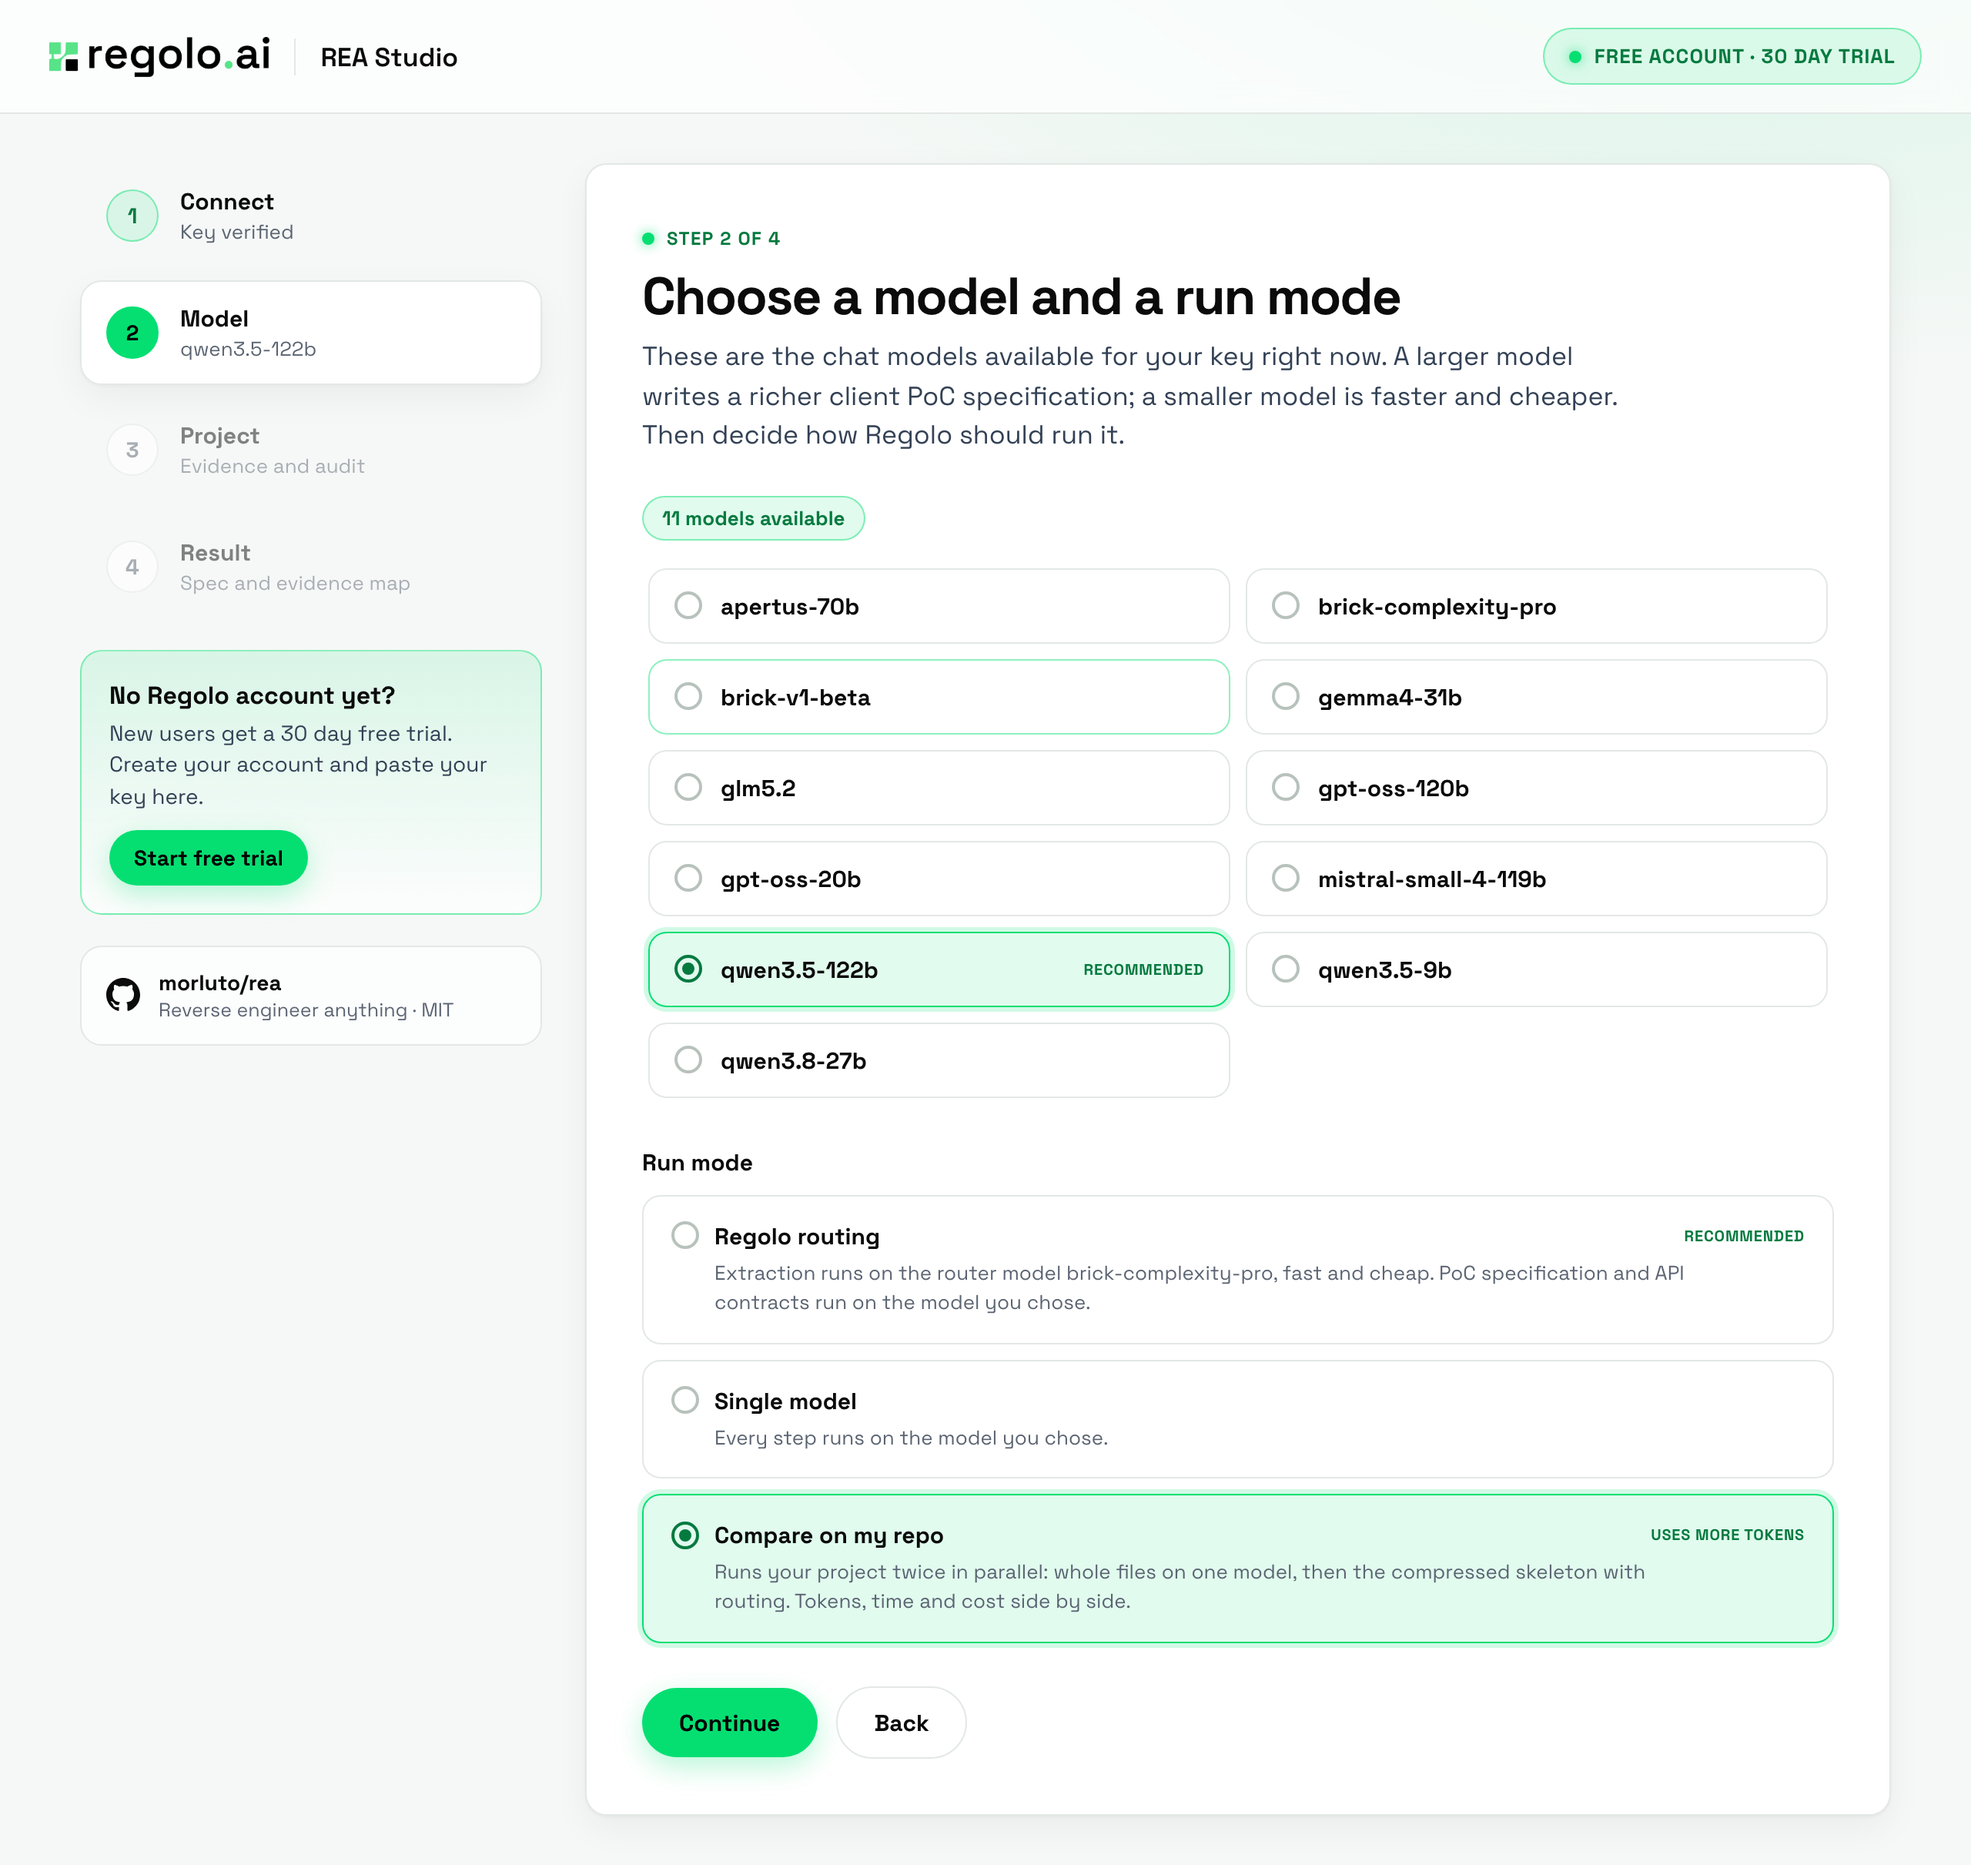
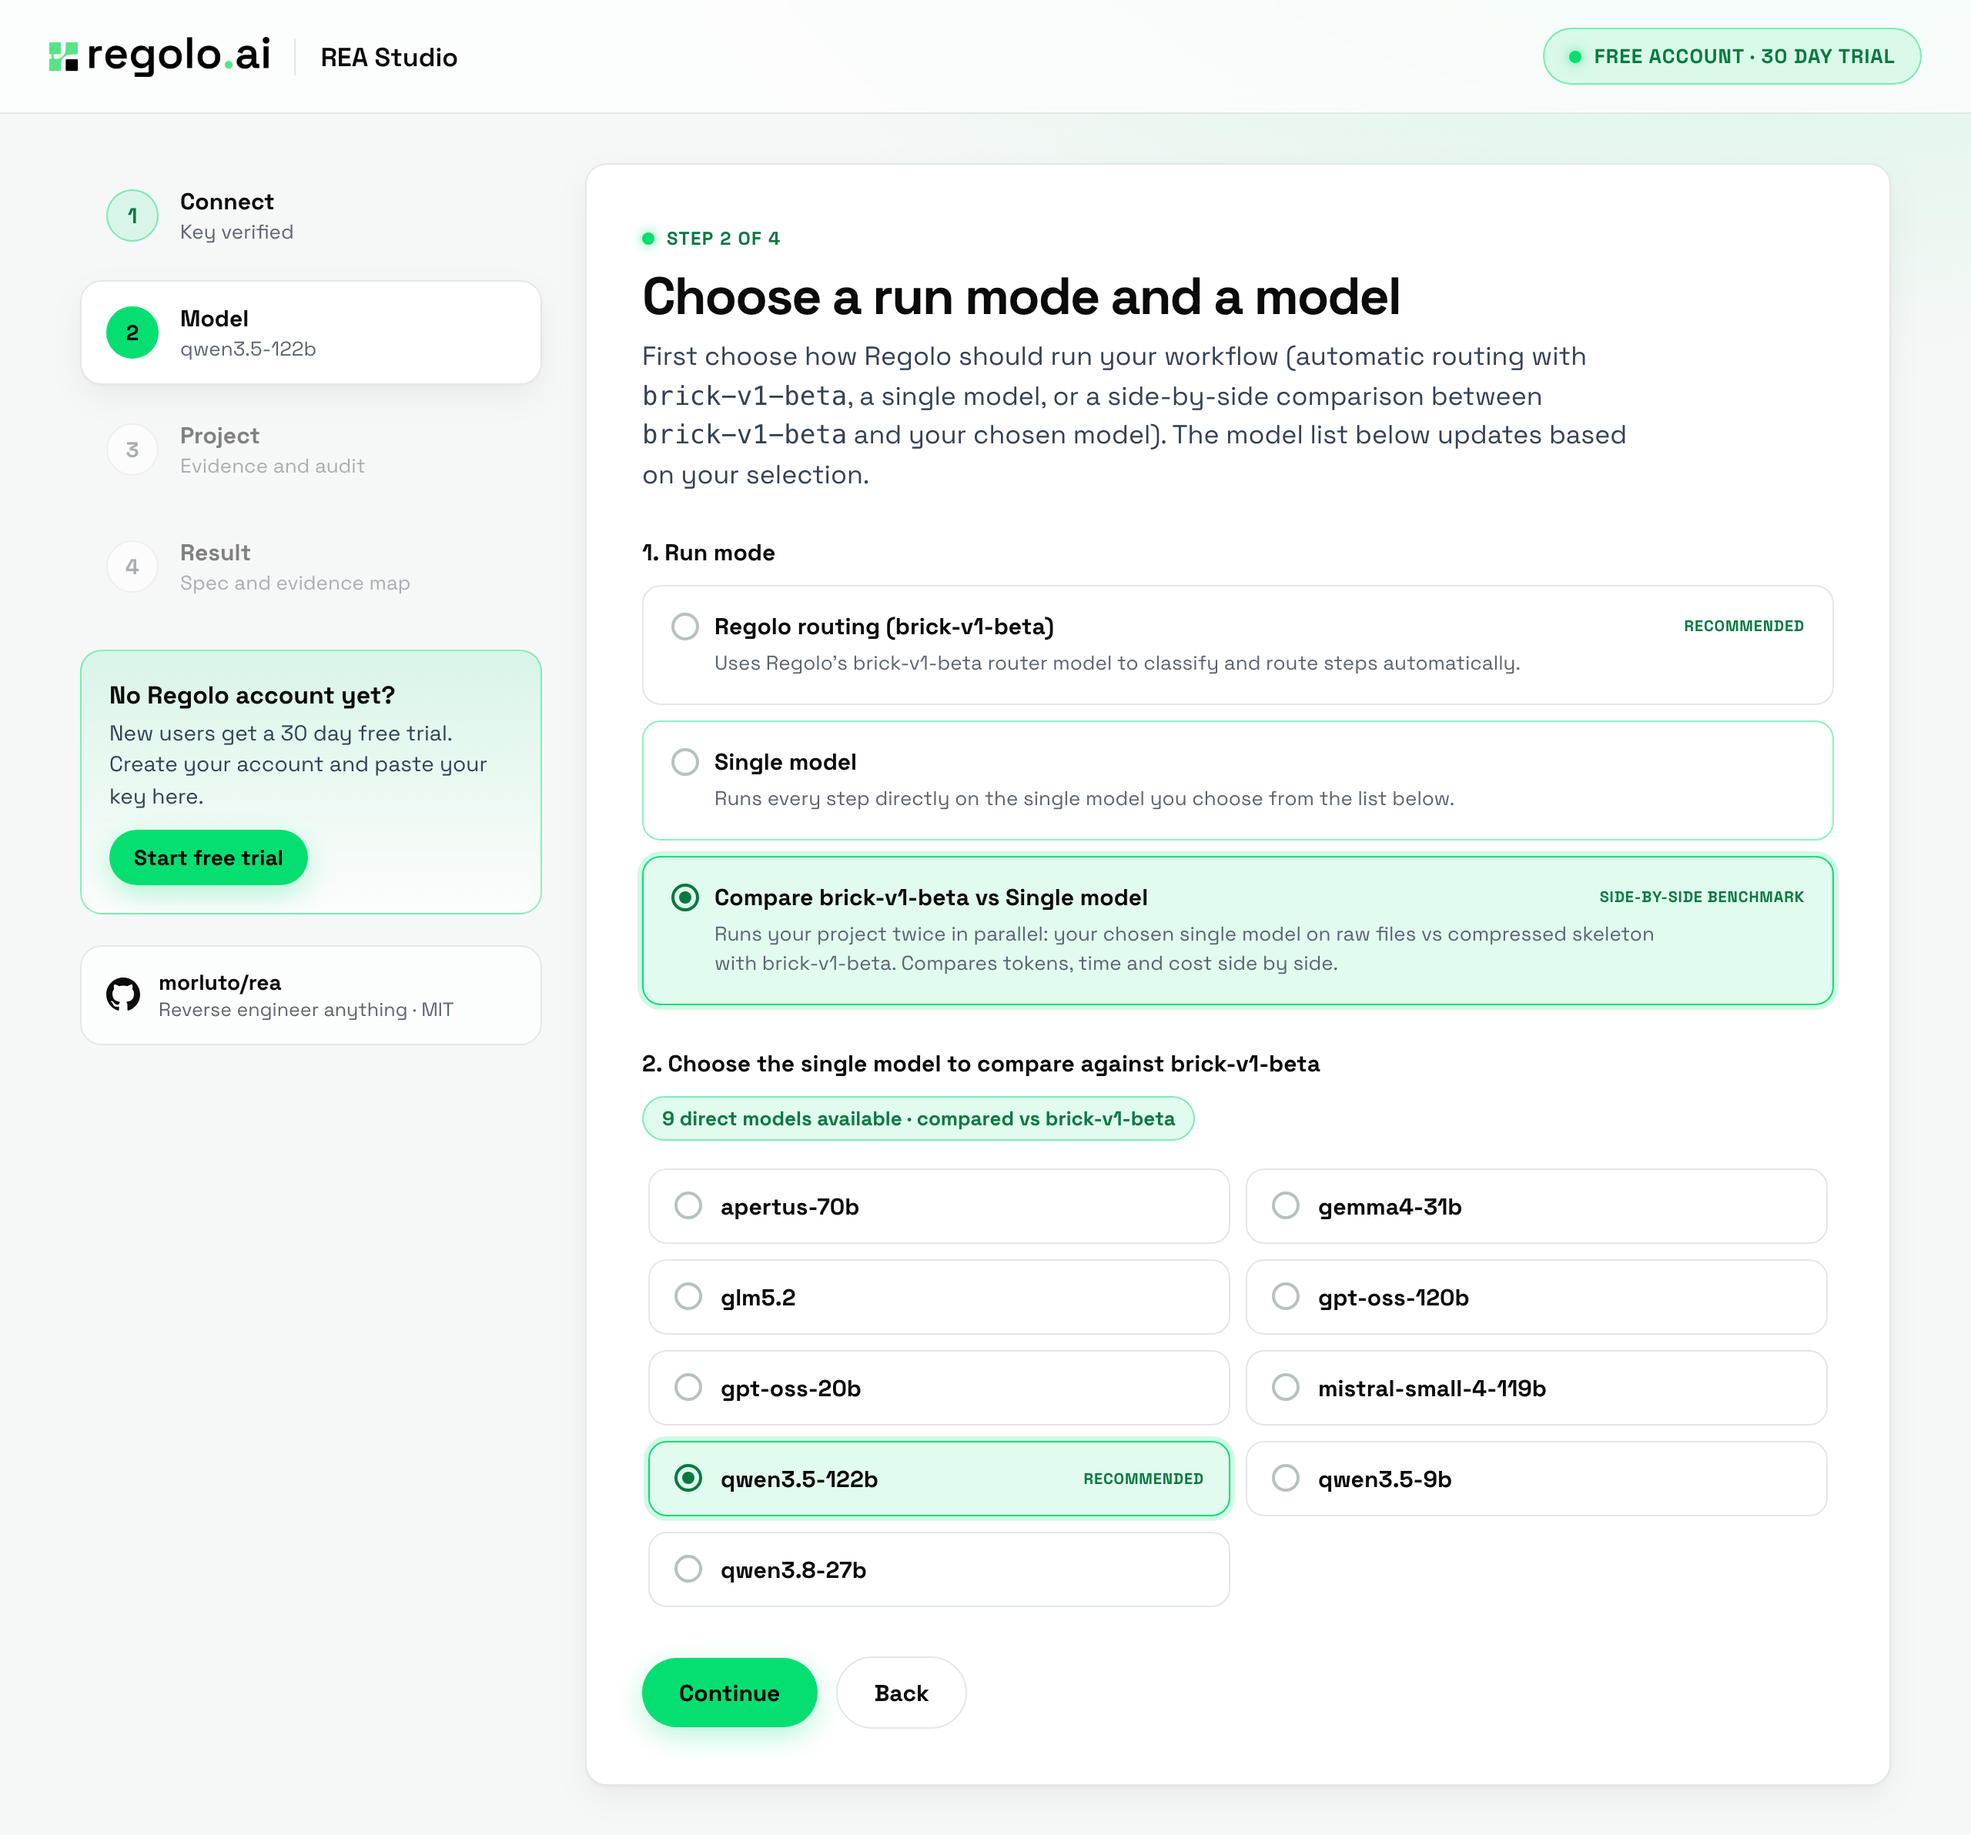
feat(rea-studio): use brick-v1-beta router, dynamic model filtering by run mode, and TS/Python workflows

diff --git a/rea-studio/rea_wizard/static/index.html b/rea-studio/rea_wizard/static/index.html
@@ -220,12 +220,13 @@ pre.md{margin:0;padding:20px;border-radius:14px;background:#0b0f0d;color:#e2e8f0
     <!-- 2 model -->
     <section class="panel" id="p2" role="tabpanel" aria-labelledby="tab2" hidden>
       <span class="eyebrow"><i class="dot"></i>Step 2 of 4</span>
-      <h1>Choose a model and a run mode</h1>
-      <p class="lead">These are the chat models available for your key right now. A larger model writes a richer client PoC specification; a smaller model is faster and cheaper. Then decide how Regolo should run it.</p>
+      <h1>Choose a run mode and a model</h1>
+      <p class="lead">First choose how Regolo should run your workflow (automatic routing with <code>brick-v1-beta</code>, a single model, or a side-by-side comparison between <code>brick-v1-beta</code> and your chosen model). The model list below updates based on your selection.</p>
+      <h2>1. Run mode</h2>
+      <div class="modes" id="modes" role="radiogroup" aria-label="Run mode"></div>
+      <h2 id="modelHeading">2. Model selection</h2>
       <div class="modelbar"><span class="count" id="mcount"></span></div>
       <div class="models" id="models" role="radiogroup" aria-label="Models"></div>
-      <h2>Run mode</h2>
-      <div class="modes" id="modes" role="radiogroup" aria-label="Run mode"></div>
       <div class="actions"><button class="btn primary" id="to3" type="button">Continue</button><button class="btn ghost" id="back1" type="button">Back</button></div>
     </section>
 
@@ -334,28 +335,49 @@ $("#keyform").addEventListener("submit", async (e) => {
 });
 
 /* ---- step 2 ---- */
+const isBrick = (m) => m.startsWith("brick-");
+function visibleModels() {
+  if (S.mode === "routed") {
+    const bm = S.models.filter(isBrick);
+    return bm.length ? bm : [S.router || "brick-v1-beta"];
+  }
+  return S.models.filter((m) => !isBrick(m));
+}
 function renderModels() {
-  $("#mcount").textContent = `${S.models.length} models available`;
-  $("#models").innerHTML = S.models.map((m) => `<label class="opt"><input type="radio" name="model" value="${esc(m)}" ${m === S.model ? "checked" : ""}>
-    <span class="card"><span class="radio"></span><span class="mname">${esc(m)}</span>${m === "qwen3.5-122b" ? '<span class="tag">Recommended</span>' : ""}</span></label>`).join("");
-  $$("#models input").forEach((i) => i.addEventListener("change", () => { S.model = i.value; $("#s2").textContent = S.model; }));
-  $("#s2").textContent = S.model;
+  const list = visibleModels();
+  if (!list.includes(S.model)) {
+    S.model = list.includes("qwen3.5-122b") ? "qwen3.5-122b" : list[0];
+  }
+  if (S.mode === "routed") {
+    $("#modelHeading").textContent = "2. Active Brick router model";
+    $("#mcount").textContent = `${list.length} Brick router model (${S.router || "brick-v1-beta"})`;
+  } else if (S.mode === "compare") {
+    $("#modelHeading").textContent = `2. Choose the single model to compare against ${S.router || "brick-v1-beta"}`;
+    $("#mcount").textContent = `${list.length} direct models available · compared vs ${S.router || "brick-v1-beta"}`;
+  } else {
+    $("#modelHeading").textContent = "2. Choose the single model to run every step";
+    $("#mcount").textContent = `${list.length} direct models available`;
+  }
+  $("#models").innerHTML = list.map((m) => `<label class="opt"><input type="radio" name="model" value="${esc(m)}" ${m === S.model ? "checked" : ""}>
+    <span class="card"><span class="radio"></span><span class="mname">${esc(m)}</span>${m === "qwen3.5-122b" || m === "brick-v1-beta" ? '<span class="tag">Recommended</span>' : ""}</span></label>`).join("");
+  $$("#models input").forEach((i) => i.addEventListener("change", () => { S.model = i.value; $("#s2").textContent = S.mode === "routed" ? (S.router || "brick-v1-beta") : S.model; }));
+  $("#s2").textContent = S.mode === "routed" ? (S.router || "brick-v1-beta") : S.model;
 }
 $("#to3").addEventListener("click", () => { unlock(3); go(3); });
 $("#back1").addEventListener("click", () => go(1));
 
 const MODES = [
-  ["routed", "Regolo routing", "Recommended", "Extraction runs on the router model {router}, fast and cheap. PoC specification and API contracts run on the model you chose."],
-  ["single", "Single model", "", "Every step runs on the model you chose."],
-  ["compare", "Compare on my repo", "Uses more tokens", "Runs your project twice in parallel: whole files on one model, then the compressed skeleton with routing. Tokens, time and cost side by side."]];
+  ["routed", "Regolo routing (brick-v1-beta)", "Recommended", "Uses Regolo's {router} router model to classify and route steps automatically."],
+  ["single", "Single model", "", "Runs every step directly on the single model you choose from the list below."],
+  ["compare", "Compare brick-v1-beta vs Single model", "Side-by-side benchmark", "Runs your project twice in parallel: your chosen single model on raw files vs compressed skeleton with {router}. Compares tokens, time and cost side by side."]];
 function renderModes() {
   $("#modes").innerHTML = MODES.map(([id, name, tag, d]) => {
     const off = id !== "single" && !S.routerOk;
     return `<label class="opt mode"><input type="radio" name="mode" value="${id}" ${S.mode === id ? "checked" : ""} ${off ? "disabled" : ""}>
       <span class="card"><span class="h"><span class="radio"></span>${name}${tag ? `<span class="tag">${tag}</span>` : ""}</span>
-      <span class="d">${esc(d.replace("{router}", S.router || "brick-complexity-pro"))}${off ? " Not available for this key." : ""}</span></span></label>`;
+      <span class="d">${esc(d.replace("{router}", S.router || "brick-v1-beta"))}${off ? " Not available for this key." : ""}</span></span></label>`;
   }).join("");
-  $$("#modes input").forEach((i) => i.addEventListener("change", () => { S.mode = i.value; }));
+  $$("#modes input").forEach((i) => i.addEventListener("change", () => { S.mode = i.value; renderModels(); }));
 }
 
 /* ---- step 3 ---- */

diff --git a/rea-studio/rea_wizard/server.py b/rea-studio/rea_wizard/server.py
@@ -34,13 +34,13 @@ STATIC = HERE / "static"
 BASE_URL = "https://api.regolo.ai/v1"
 MIME = {".html": "text/html; charset=utf-8", ".png": "image/png", ".woff2": "font/woff2", ".css": "text/css", ".js": "text/javascript"}
 
-NON_CHAT_HINTS = ("embed", "rerank", "whisper", "ocr", "image", "clef", "tts", "speech")
+NON_CHAT_HINTS = ("embed", "rerank", "whisper", "ocr", "image", "clef", "tts", "speech", "brick-complexity")
 PREFERRED_MODEL = "qwen3.5-122b"
-ROUTER_MODEL = "brick-complexity-pro"
+ROUTER_MODEL = "brick-v1-beta"
 PRICES_PATH = HERE / "prices.json"
 STAGE_PCT = {"scan": 12, "triage": 45, "reconstruct": 80}
 
-ALLOWED_EXTS = {".json", ".har", ".yml", ".yaml", ".sql", ".py", ".ts", ".js", ".go", ".rs", ".toml"}
+ALLOWED_EXTS = {".json", ".har", ".yml", ".yaml", ".sql", ".py", ".ts", ".tsx", ".js", ".jsx", ".mjs", ".go", ".rs", ".toml"}
 BUILTIN_IGNORE = {".git", "node_modules", ".venv", "venv", "__pycache__", "dist", "build", ".next", "output"}
 SKIP_NAMES = {"benchmark_results.json", "package-lock.json", "pnpm-lock.yaml", "yarn.lock"}
 SENSITIVE_NAME = re.compile(r"(?i)secret|credential|private|\.pem$|id_rsa")
@@ -233,20 +233,21 @@ def execute_run(key, model, tcode, project, info, routed: bool, compact: bool, r
     )
     usr1 = f"Isolate critical IPC channels, API payloads, crypto routines, and SQLite tables for '{name}' ({desc}) from:\n{scan['skeleton_text']}"
     tri_model, router_fallback = (ROUTER_MODEL if routed else model), False
+    fallback_model = PREFERRED_MODEL if model == ROUTER_MODEL else model
     try:
         s1 = metered_chat(key, tri_model, sys1, usr1, 900, "Triage REA evidence dump", stages)
     except UserError:
-        if tri_model == model:
+        if tri_model == fallback_model:
             raise
-        tri_model, router_fallback = model, True
-        s1 = metered_chat(key, model, sys1, usr1, 900, "Triage REA evidence dump", stages)
+        tri_model, router_fallback = fallback_model, True
+        s1 = metered_chat(key, fallback_model, sys1, usr1, 900, "Triage REA evidence dump", stages)
 
     rea_obj = T.parse_rea_json(s1["content"], scan["files"])
     from_model = lambda r: not str(r["evidence"][0].get("symbol", "")).startswith("ipc:sync:flush_offline_queue ->")
     router_retry = False
     if routed and tri_model == ROUTER_MODEL and not from_model(rea_obj):
         router_retry = True
-        s1 = metered_chat(key, model, sys1, usr1, 900, "Triage REA evidence dump (retry)", stages)
+        s1 = metered_chat(key, fallback_model, sys1, usr1, 900, "Triage REA evidence dump (retry)", stages)
         rea_obj = T.parse_rea_json(s1["content"], scan["files"])
 
     report("reconstruct", STAGE_PCT["reconstruct"])
@@ -394,7 +395,8 @@ class Handler(BaseHTTPRequestHandler):
             key = str(data.get("api_key", "")).strip()
             if self.path == "/api/models":
                 models = list_models(key)
-                default = PREFERRED_MODEL if PREFERRED_MODEL in models else models[0]
+                non_brick = [m for m in models if not m.startswith("brick-")]
+                default = PREFERRED_MODEL if PREFERRED_MODEL in non_brick else (non_brick[0] if non_brick else models[0])
                 return self.json(200, {"models": models, "default": default, "router": ROUTER_MODEL, "router_available": ROUTER_MODEL in models})
             if self.path == "/api/generate":
                 job_id = uuid.uuid4().hex

diff --git a/rea-studio/regolo_rea_tui.py b/rea-studio/regolo_rea_tui.py
@@ -40,12 +40,13 @@ BG_BADGE = f"{ESC}48;2;6;25;16m"
 
 POC_TEMPLATES = [
     ("web-har-to-poc", "Web / HAR Capture -> Interactive Client PoC", "Turn recorded web flows (`rea environment-build`) into a runnable service PoC for agency pitches"),
-    ("electron-ipc-to-web", "Electron / JS Bundle -> Cloud SaaS PoC", "Extract preload bridges & IPC handlers (`analyze-javascript-application`) to prototype a web migration"),
-    ("legacy-binary-to-api", "Go / Rust / .NET Binary -> Modern API Spec", "Recover domain symbols, crypto parameters & state machines to scope fixed-price modernization"),
+    ("electron-ipc-to-web", "TypeScript / JS / Electron -> Cloud SaaS PoC", "Trace TS/JS module graphs, preload bridges & IPC (`analyze-javascript-application`) to prototype a SaaS migration"),
+    ("legacy-binary-to-api", "PyInstaller / Go / Rust / .NET -> Modern API Spec", "Extract PyInstaller CArchive/PYZ, Go/Rust symbols & state machines to scope fixed-price modernization"),
     ("sqlite-wal-to-service", "SQLite Snapshot -> Microservice Data Layer", "Inspect tables, triggers & sync policies to generate a clean-room backend prototype"),
 ]
 
 NON_CHAT_MODELS = {
+    "brick-complexity-pro",
     "clef-flash",
     "deepseek-ocr-2",
     "faster-whisper-large-v3",
@@ -194,7 +195,7 @@ def sieve_evidence_content(path: str, text: str, compact: bool = True) -> str:
 
 
 def scan_project_directory(project_dir: Path, max_files: int = 12) -> dict:
-    allowed_exts = {".json", ".har", ".yml", ".yaml", ".sql", ".py", ".ts", ".js", ".go", ".rs", ".toml"}
+    allowed_exts = {".json", ".har", ".yml", ".yaml", ".sql", ".py", ".ts", ".tsx", ".js", ".jsx", ".mjs", ".go", ".rs", ".toml"}
     ignore_dirs = {".git", "node_modules", ".venv", "venv", "__pycache__", "dist", "build", ".next", "output"}
     skip_names = {"benchmark_results.json", "package-lock.json", "pnpm-lock.yaml", "yarn.lock"}
 

diff --git a/rea-studio/rea_wizard/test_server.py b/rea-studio/rea_wizard/test_server.py
@@ -46,7 +46,7 @@ class ReaStudioTests(unittest.TestCase):
     def test_routed_triage_and_retry(self):
         S.chat = FakeChat(bad_router=False)
         r = S.execute_run("k", "qwen3.5-122b", "web-har-to-poc", "pos", {"files": sample_dumps()}, True, True, lambda *_: None)
-        self.assertEqual([s["model"] for s in r["stages"]], ["brick-complexity-pro", "qwen3.5-122b"])
+        self.assertEqual([s["model"] for s in r["stages"]], ["brick-v1-beta", "qwen3.5-122b"])
         self.assertFalse(r["router_retry"])
         self.assertIn("REA_MCP_INPUT_SCHEMA_PROFILE", r["html"])
 

diff --git a/rea-studio/README.md b/rea-studio/README.md
@@ -31,7 +31,7 @@ This repository provides a **zero-dependency Python web app** (`rea_wizard/serve
 
 ### 1. Live Compare Mode on REA Evidence Dumps (`rea-studio`, October 27, 2026)
 
-| Metric | Baseline (Unfiltered dumps + `qwen3.5-122b`) | Optimized (Local IPC/symbol sieve + `brick-complexity-pro` routing) | Change |
+| Metric | Baseline (Unfiltered dumps + `qwen3.5-122b`) | Optimized (Local IPC/symbol sieve + `brick-v1-beta` routing) | Change |
 |:---|---:|---:|---:|
 | **Prompt tokens** | 30,298 | 993 | **−96.7%** |
 | **Total tokens** | 31,846 | 2,481 | **−92.2%** |
